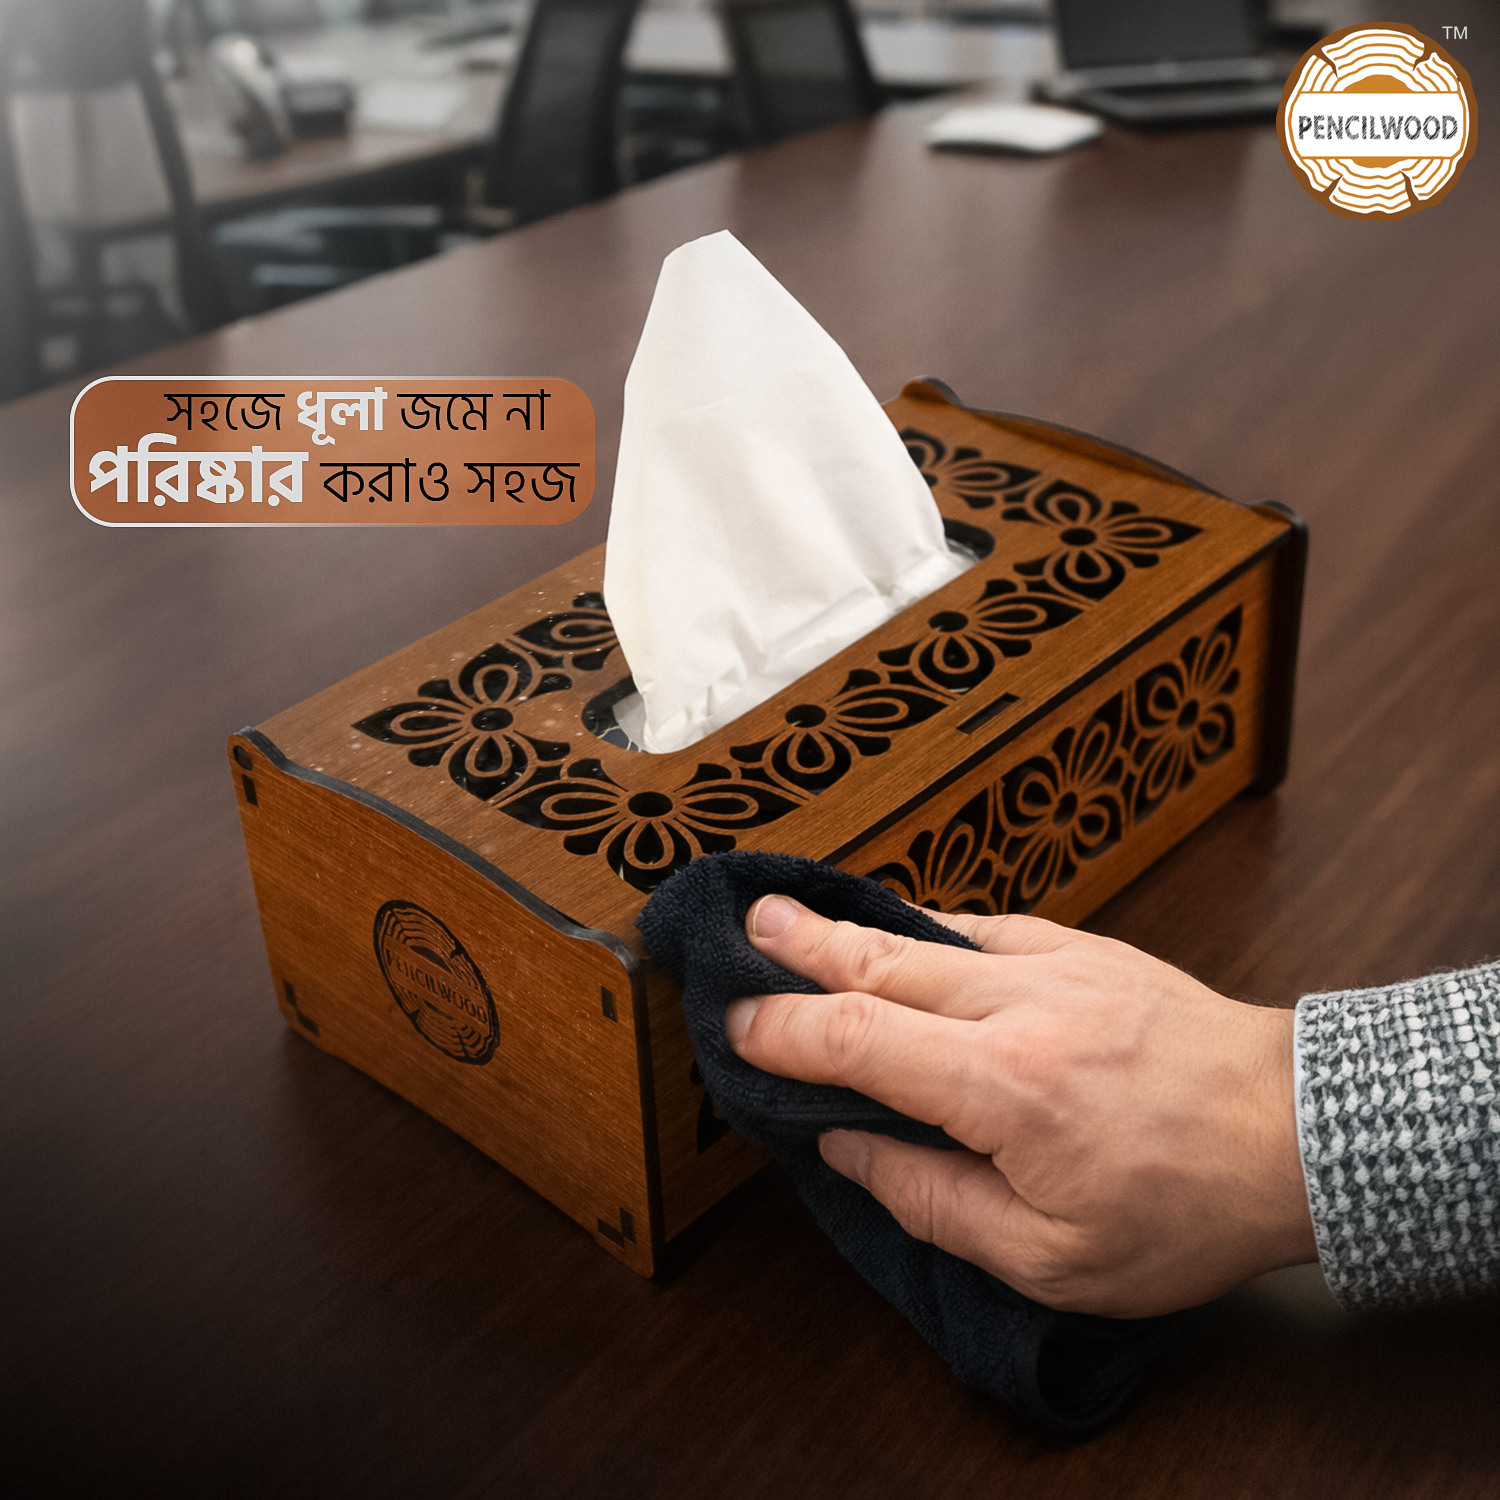
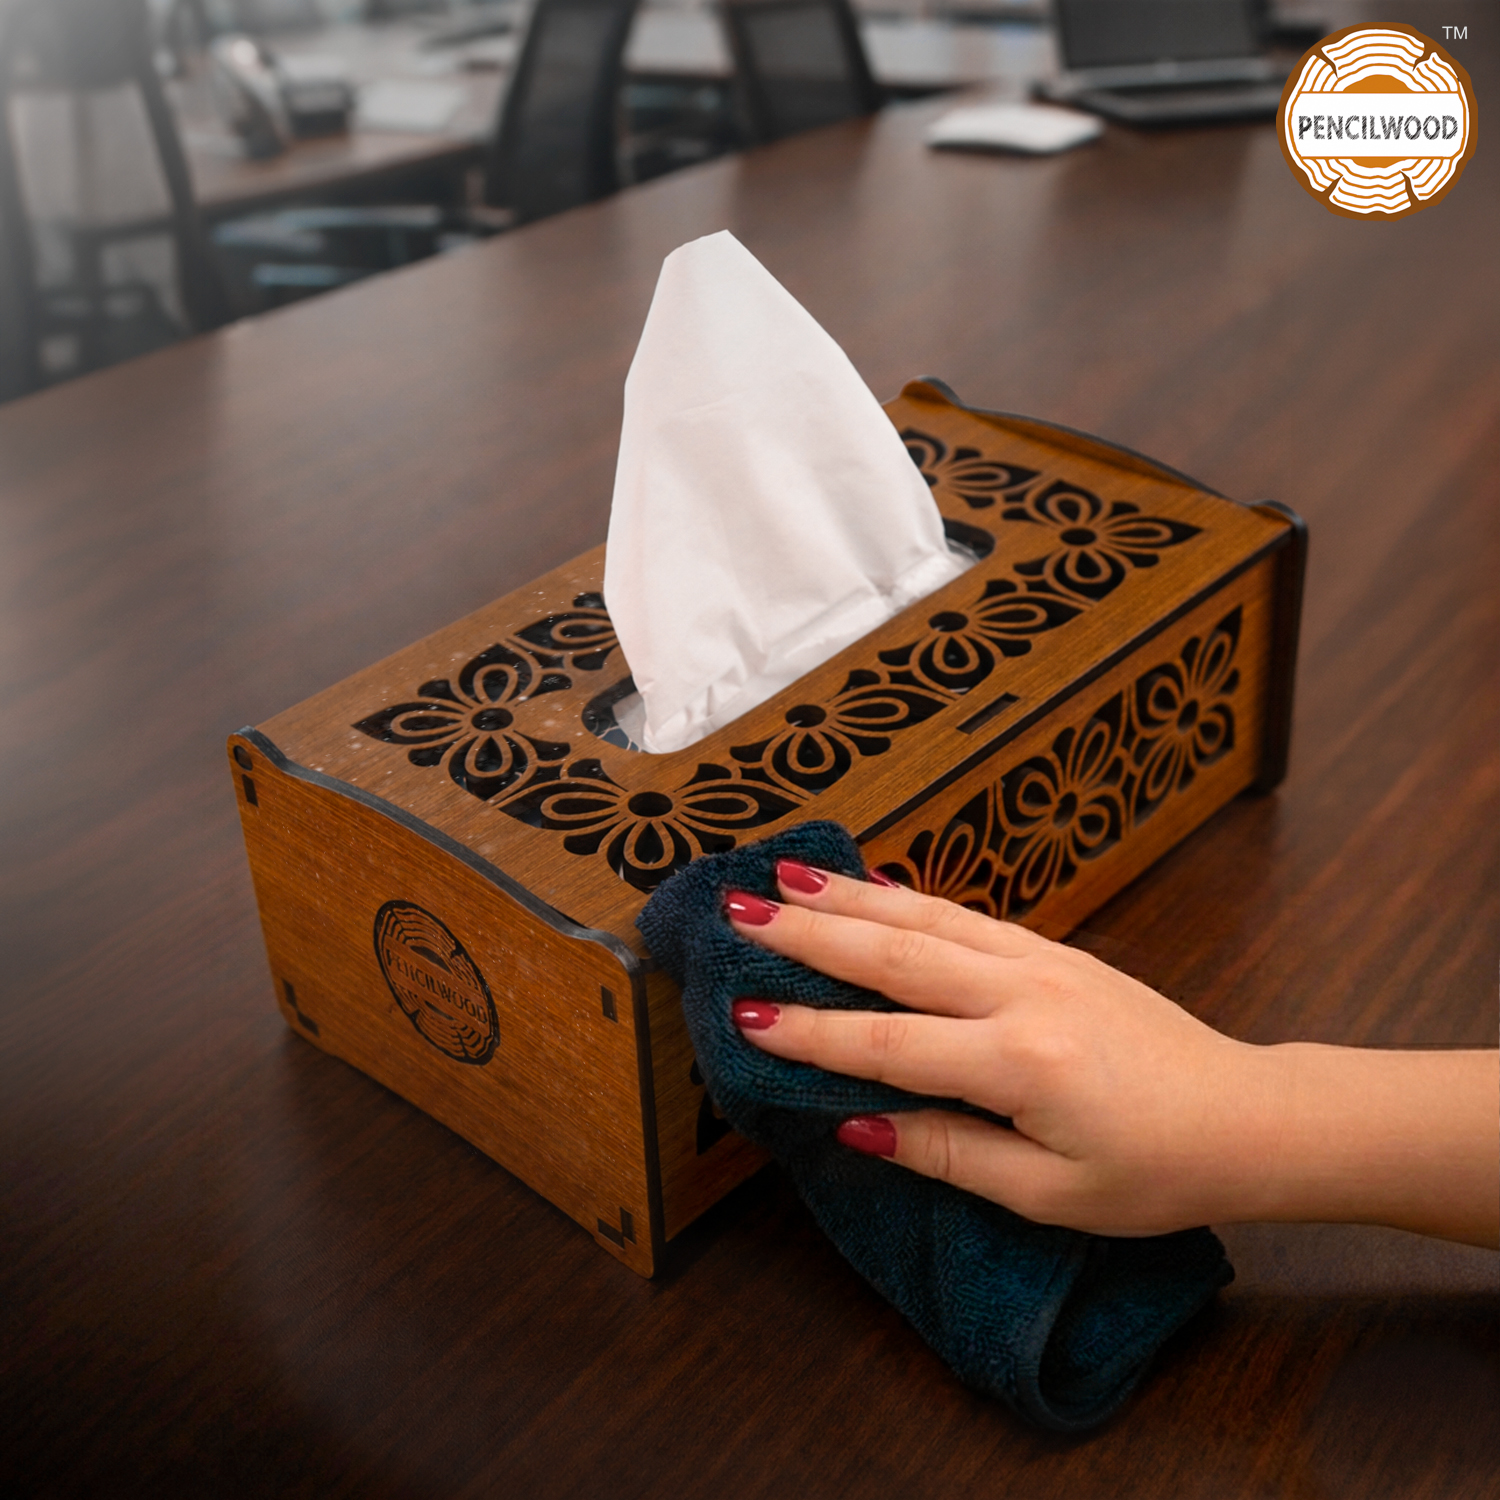
image changed & সময় সিমিত lekha commented

Changed region(s): [[0.46, 0.5213, 1.0, 0.9813], [0.0307, 0.2453, 0.3987, 0.368], [0.8893, 0.0307, 0.9507, 0.0613]]

diff --git a/index.html b/index.html
@@ -45,7 +45,7 @@
       <p class="hero-price">৳ <span class="product-new-price">0</span></p>
       <!-- Trust Strip -->
       <div class="trust-strip">
-        ক্যাশ অন ডেলিভেরি | ২–৩ দিনে ডেলিভেরি | ⏳ সময় সীমিত
+         ক্যাশ অন ডেলিভেরি | ২–৩ দিনে ডেলিভেরি <!-- | ⏳ সময় সীমিত -->
       </div>
       <button class="btn btn-order mt-3 cart-shaker" data-bs-toggle="modal" data-bs-target="#orderModal">
         অর্ডার করুন
@@ -61,19 +61,19 @@
     <section class="section section-light text-center">
       <h2 class="section-title">প্রোডাক্ট ফিচার</h2>
       <div class="row mt-4">
-        <div class="col-6 col-md-3 feature-box"><img src="images/5 mm tthickness.jpg.jpeg" class="feature-img">
+        <div class="col-6 col-md-3 feature-box"><img src="images/5 mm tthickness.jpeg" class="feature-img">
           <p>5mm কম্প্রেসড উড</p>
         </div>
         <div class="col-6 col-md-3 feature-box"><img src="images/Laser cut design.jpg.jpeg" class="feature-img">
           <p>লেজার কাট ফ্লোরাল ডিজাইন</p>
         </div>
-        <div class="col-6 col-md-3 feature-box"><img src="images/Glossy burnish.jpg.jpeg" class="feature-img">
+        <div class="col-6 col-md-3 feature-box"><img src="images/Gloosy.png" class="feature-img">
           <p>ফার্নিচার গ্রেড লেকার ফিনিশ</p>
         </div>
         <div class="col-6 col-md-3 feature-box"><img src="images/splash proof.jpg.jpeg" class="feature-img">
           <p>পানি প্রতিরোধক</p>
         </div>
-        <div class="col-6 col-md-3 feature-box"><img src="images/Dust proof.jpg.jpeg" class="feature-img">
+        <div class="col-6 col-md-3 feature-box"><img src="images/dUST.jpg.jpeg" class="feature-img">
           <p>গ্লসি ফিনিশ তাই ধুলো কম ধরে</p>
         </div>
         <div class="col-6 col-md-3 feature-box"><img src="images/Easy clean.jpg.jpeg" class="feature-img">
@@ -86,22 +86,22 @@
     <section class="section text-center">
       <h2 class="section-title">যেখানে মানানসই</h2>
       <div class="row mt-4">
-        <div class="col-6 col-md-3 use-box"><img src="images/drawing.jpg.jpeg" class="use-img">
+        <div class="col-6 col-md-3 use-box"><img src="images/Drawing.jpeg" class="use-img">
           <p>ড্রয়িং রুম</p>
         </div>
-        <div class="col-6 col-md-3 use-box"><img src="images/dinning-table.jpg.jpeg" class="use-img">
+        <div class="col-6 col-md-3 use-box"><img src="images/Dining Table.png" class="use-img">
           <p>ডাইনিং টেবিল</p>
         </div>
-        <div class="col-6 col-md-3 use-box"><img src="images/restaurant.jpg.jpeg" class="use-img">
+        <div class="col-6 col-md-3 use-box"><img src="images/bedroom 02.jpg.jpeg" class="use-img">
           <p>বেডসাইড</p>
         </div>
-        <div class="col-6 col-md-3 use-box"><img src="images/office-table.jpg.jpeg" class="use-img">
+        <div class="col-6 col-md-3 use-box"><img src="images/office-table.jpeg" class="use-img">
           <p>অফিস ডেস্ক</p>
         </div>
-        <div class="col-6 col-md-3 use-box"><img src="images/restaurant.jpg.jpeg" class="use-img">
+        <div class="col-6 col-md-3 use-box"><img src="images/Resturant.jpeg" class="use-img">
           <p>রেস্টুরেন্ট / ক্যাফে</p>
         </div>
-        <div class="col-6 col-md-3 use-box"><img src="images/restaurant.jpg.jpeg" class="use-img">
+        <div class="col-6 col-md-3 use-box"><img src="images/hospital.jpg.jpeg" class="use-img">
           <p>হসপিটাল</p>
         </div>
       </div>
